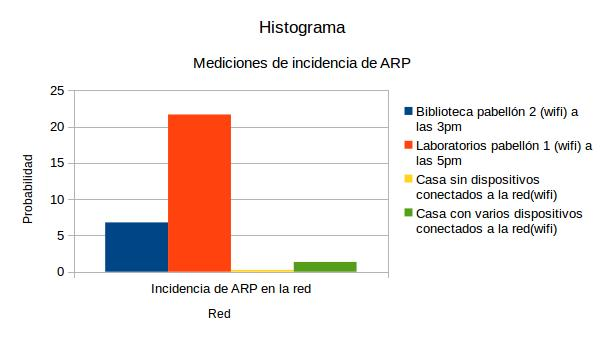
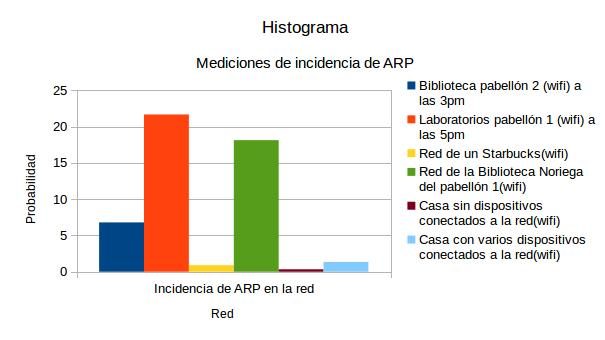
Agrego muestra de Starbucks y Noriaga a incidencia de ARP

diff --git a/latex/experimentos.tex b/latex/experimentos.tex
@@ -13,7 +13,10 @@ Para realizar estos experimentos analizaremos los siguientes datasets, cada uno 
 \item Dataset 2: Laboratorios pabellón 1 (wifi) a las 5pm
 \item Dataset 3: Hogar de uno de los integrantes del grupo, sin ningun otro dispositivo(wifi) a las 12am
 \item Dataset 4: Hogar de uno de los integrantes del grupo, con más dispositivos conectados a la red(wifi) a las 12:20pm
+\item Dataset 5: Red de un Starbucks(wifi)
+\item Dataset 6: Red de la Biblioteca Noriega del pabellón 1(wifi)
 \end{itemize}
+
 
 \subsection{Experimento protocolos distinguidos}
 
@@ -139,7 +142,7 @@ Usaremos la misma forma de medir que describimos en el ejercicio anterior para p
 tomadas de distintas redes y graficarlas en un histograma, después de mostrar los resultados daremos una explicación del por que de los mismo. Aclaración: todas las capturas
 son de 15 minutos.
 
-\begin{figure}[ht!]
+\begin{figure}[H]
 \centering
 \includegraphics[width=90mm]{imagenes/IncidenciaARP.jpg}
 \caption{Comparación de porcentaje de apariciones de ARP en distintas redes o con distintas condiciones.\label{overflow}}
@@ -148,11 +151,18 @@ son de 15 minutos.
 Como podemos ver la red de los laboratorios tiene más porcentaje de paquetes ARP que el de la biblioteca. Esto se debe a que en el laboratorio del pabellón 1 ingresan
 constantemente personas y, por lo tanto, la mayoría de ellos ingresan en la red a través de las computadoras del mismo o usando el wifi de estos con sus celulares. Esto
 ocurre en menor medida en la biblioteca ya que no se usan computadoras que no sean propias de los que ingresan y, por lo tanto, hay mucho más tráfico de paquetes ARP en la red
-de los laboratorios. Además al estar en una red privada, es más común que se efectúen envíos de mensajes entre computadoras y los routers de las mismas.
+de los laboratorios. Además al estar en una red privada, es más común que se efectúen envíos de mensajes entre computadoras y los routers de las mismas.\\
 
 En menor medida tenemos los casos tomados en la red de un hogar, teniendo como sus dos mediciones a cuando solamente hay un dispositivo, el mismo con el que se realiza la medición,
 conectado a la red y cuando hay más cantidad. Podemos ver que el tráfico de paquetes ARP es muy bajo en ambos casos en comparación a las muestras anteriores. Sin embargo,
-cuando hay mayor cantidad de dispositivos el tráfico general aumenta y también el porcentaje de paquetes ARP, porque en este caso hay mas hosts.
+cuando hay mayor cantidad de dispositivos el tráfico general aumenta y también el porcentaje de paquetes ARP, porque en este caso hay mas hosts.\\
+
+Por último tenemos dos mediciones realizadas en la biblioteca Noriega y un Starbucks, en estas podemos ver resultados similares a los anteriores. La biblioteca tiene a muchas
+gente entrando y saliendo, muchos de ellos se quedan a usar las instalaciones para estudiar con sus celulares y computadoras portatiles. En el Starbucks notamos que era menos
+común cuando se realizo las mediciones.\\
+
+La conclusión que podemos sacar es que si bien estas muestras pertenecen a distintos lugares y horarios podemos ver como el tráfico de paquetes ARP es más significativo cuando 
+la red tiende a obtener nuevos hosts con más constancia.
 
 % end subsection
 
